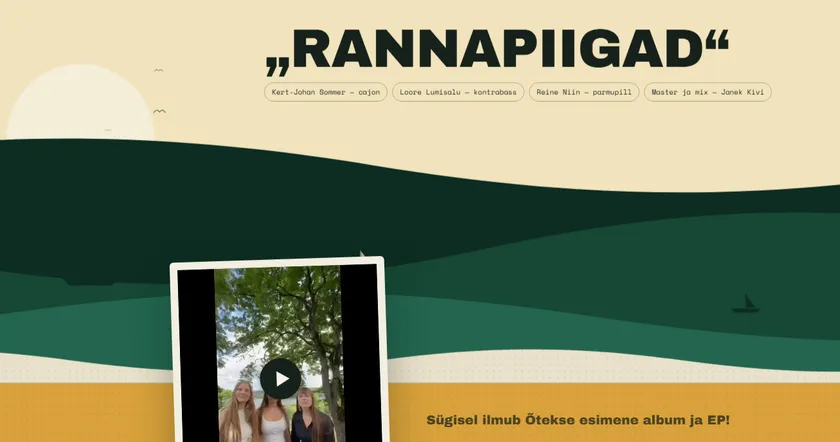
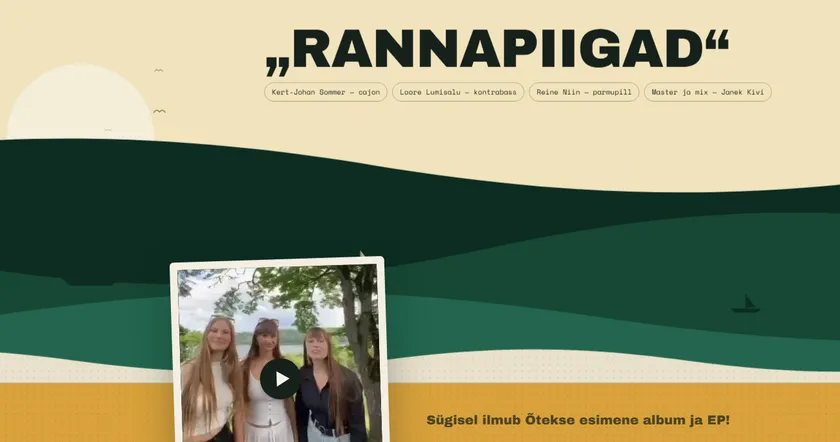
Fill the video card with no black bars, cropping at the top
The upright clips' black bars are baked into the 16:9 file, so object-fit
alone could not remove them. The video is now drawn at the size where an
upright clip's footage spans the 8:9 card's width (316% wide, 158% tall),
centred and pinned to the bottom, so the part that does not fit is cut off at
the top: upright clips fill the card edge to edge, and wide clips show their
middle third. The card keeps its size.

At that size the browser's own controls would sit outside the card, so the
card gets its own bar — play/pause, seek, time, mute and full screen, with
Estonian and English labels — and clicking the picture plays or pauses. Full
screen shows the whole picture with native controls. The card now straightens
once the video has been started rather than when native controls appear. The
header card's stills are retaken.

Changed region(s): [[0.1857, 0.5882, 0.4643, 1.0], [0.8048, 0.7941, 0.8357, 0.8235], [0.0619, 0.7941, 0.0929, 0.8235]]

diff --git a/src/components/home/AlbumVideo.tsx b/src/components/home/AlbumVideo.tsx
@@ -1,6 +1,6 @@
 "use client";
 
-import { useRef, useState } from "react";
+import { useEffect, useRef, useState } from "react";
 import { useTranslations } from "next-intl";
 import { IMAGES, VIDEOS } from "@/content/assets";
 import styles from "./AlbumVideo.module.scss";
@@ -10,25 +10,85 @@ import styles from "./AlbumVideo.module.scss";
 // Served from our own server, so playing it contacts no third party: no
 // consent question, and nothing extra for the privacy policy.
 //
-// The frame is 8:9, one fixed shape: the column's width and twice the height
-// of a 16:9 frame. The file is 16:9 and mixes upright phone clips, with black
-// bars baked in either side, and wide landscape shots. With `object-fit:
-// cover` the picture fills the frame by height, so the upright clips show at
-// twice their 16:9 size with only slim bars left, and the wide clips show their
-// middle half. Both
-// the owner's calls: a card that changed shape per clip looked worse, and a
-// taller card that kept the whole picture left the upright clips just as small.
+// The frame is 8:9. The file is 16:9 and mixes upright phone clips, whose
+// black bars are baked into the picture, with wide landscape shots. At the
+// owner's call there are no bars: the video is drawn at the size where an
+// upright clip's own footage spans the frame's width, centred, and pinned to
+// the bottom, so the part that does not fit is cut off at the top. Wide clips
+// show their middle third.
+//
+// That video box is about three times wider than the frame, so the browser's
+// own controls — laid out across the box — would sit outside the frame, cut
+// off. The frame carries its own small bar instead (play/pause, seek, mute,
+// full screen), and clicking the picture plays or pauses. In full screen the
+// browser shows the whole picture with its native controls.
 //
 // Until pressed it shows our poster (a frame of the video) and a play button,
 // with `preload="none"`: loading the page never downloads the ~6 MB file, only
 // pressing play does.
+
+function formatTime(seconds: number) {
+  const s = Math.max(0, Math.floor(seconds));
+  return `${Math.floor(s / 60)}:${String(s % 60).padStart(2, "0")}`;
+}
+
 export function AlbumVideo() {
   const t = useTranslations("Album");
   const video = useRef<HTMLVideoElement>(null);
   const [started, setStarted] = useState(false);
+  const [playing, setPlaying] = useState(false);
+  const [muted, setMuted] = useState(false);
+  const [time, setTime] = useState(0);
+  const [duration, setDuration] = useState(0);
+  const [fullscreen, setFullscreen] = useState(false);
+
+  useEffect(() => {
+    const el = video.current;
+    if (!el) return;
+    const sync = () => {
+      setPlaying(!el.paused && !el.ended);
+      setMuted(el.muted);
+      setTime(el.currentTime);
+      if (Number.isFinite(el.duration)) setDuration(el.duration);
+    };
+    const onFullscreen = () => setFullscreen(document.fullscreenElement === el);
+    const events = ["play", "pause", "ended", "timeupdate", "loadedmetadata", "volumechange"];
+    events.forEach((e) => el.addEventListener(e, sync));
+    document.addEventListener("fullscreenchange", onFullscreen);
+    return () => {
+      events.forEach((e) => el.removeEventListener(e, sync));
+      document.removeEventListener("fullscreenchange", onFullscreen);
+    };
+  }, []);
+
+  const start = () => {
+    setStarted(true);
+    void video.current?.play();
+  };
+
+  const togglePlay = () => {
+    const el = video.current;
+    if (!el) return;
+    if (el.paused || el.ended) void el.play();
+    else el.pause();
+  };
+
+  const toggleMute = () => {
+    const el = video.current;
+    if (el) el.muted = !el.muted;
+  };
+
+  const enterFullscreen = () => {
+    const el = video.current as
+      | (HTMLVideoElement & { webkitEnterFullscreen?: () => void })
+      | null;
+    if (!el) return;
+    if (el.requestFullscreen) void el.requestFullscreen();
+    else el.webkitEnterFullscreen?.(); // iOS Safari: its own full-screen player
+  };
 
   return (
-    <div className={styles.frame}>
+    <div className={styles.frame} data-started={started ? "" : undefined}>
       <video
         ref={video}
         className={styles.video}
@@ -36,21 +96,111 @@ export function AlbumVideo() {
         poster={IMAGES.albumVideoPoster}
         preload="none"
         playsInline
-        controls={started}
+        // Native controls only in full screen, where the whole picture shows.
+        controls={fullscreen}
         aria-label={t("videoTitle")}
       />
-      {!started && (
+
+      {!started ? (
         <button
           type="button"
           className={styles.start}
           aria-label={t("videoPlay")}
-          onClick={() => {
-            setStarted(true);
-            void video.current?.play();
-          }}
+          onClick={start}
         >
           <span className={styles.play} aria-hidden />
         </button>
+      ) : (
+        <>
+          <button
+            type="button"
+            className={styles.toggle}
+            aria-label={playing ? t("videoPause") : t("videoPlay")}
+            onClick={togglePlay}
+          />
+          <div className={styles.bar}>
+            <button
+              type="button"
+              className={styles.ctrl}
+              aria-label={playing ? t("videoPause") : t("videoPlay")}
+              onClick={togglePlay}
+            >
+              {playing ? (
+                <svg viewBox="0 0 24 24" aria-hidden>
+                  <path d="M7 5h3.5v14H7zM13.5 5H17v14h-3.5z" fill="currentColor" />
+                </svg>
+              ) : (
+                <svg viewBox="0 0 24 24" aria-hidden>
+                  <path d="M8 5.5v13l11-6.5z" fill="currentColor" />
+                </svg>
+              )}
+            </button>
+
+            <input
+              type="range"
+              className={styles.seek}
+              min={0}
+              max={duration || 0}
+              step={0.1}
+              value={Math.min(time, duration || 0)}
+              aria-label={t("videoSeek")}
+              aria-valuetext={`${formatTime(time)} / ${formatTime(duration)}`}
+              onChange={(e) => {
+                const el = video.current;
+                if (el) el.currentTime = Number(e.target.value);
+              }}
+            />
+            <span className={styles.time} aria-hidden>
+              {formatTime(time)}
+            </span>
+
+            <button
+              type="button"
+              className={styles.ctrl}
+              aria-label={muted ? t("videoUnmute") : t("videoMute")}
+              aria-pressed={muted}
+              onClick={toggleMute}
+            >
+              <svg viewBox="0 0 24 24" aria-hidden>
+                <path d="M4 9.5h3.5L12 5.5v13l-4.5-4H4z" fill="currentColor" />
+                {muted ? (
+                  <path
+                    d="M15.5 9.5l5 5m0-5l-5 5"
+                    stroke="currentColor"
+                    strokeWidth="2"
+                    strokeLinecap="round"
+                  />
+                ) : (
+                  <path
+                    d="M15.5 9a4 4 0 0 1 0 6M18 6.5a7.5 7.5 0 0 1 0 11"
+                    stroke="currentColor"
+                    strokeWidth="2"
+                    strokeLinecap="round"
+                    fill="none"
+                  />
+                )}
+              </svg>
+            </button>
+
+            <button
+              type="button"
+              className={styles.ctrl}
+              aria-label={t("videoFullscreen")}
+              onClick={enterFullscreen}
+            >
+              <svg viewBox="0 0 24 24" aria-hidden>
+                <path
+                  d="M4.5 9V4.5H9M15 4.5h4.5V9M19.5 15v4.5H15M9 19.5H4.5V15"
+                  stroke="currentColor"
+                  strokeWidth="2"
+                  strokeLinecap="round"
+                  strokeLinejoin="round"
+                  fill="none"
+                />
+              </svg>
+            </button>
+          </div>
+        </>
       )}
     </div>
   );

diff --git a/src/components/home/AlbumVideo.module.scss b/src/components/home/AlbumVideo.module.scss
@@ -1,6 +1,6 @@
 @use "../../styles/mixins" as *;
 
-// 8:9: the card's width, twice the height of a 16:9 frame (owner request).
+// 8:9: the card's width, twice the height of a 16:9 frame.
 .frame {
   position: relative;
   aspect-ratio: 8 / 9;
@@ -8,22 +8,35 @@
   background: var(--color-ink);
 }
 
+// The whole 16:9 file, at the size where an upright clip's footage (the middle
+// 303.75 of its 960 px, 31.64%) spans the frame's width: 316.05% of the frame's
+// width, and 16:9 of that, which is 158.03% of an 8:9 frame's height. Centred
+// sideways and pinned to the bottom, so the part that does not fit is cut off
+// at the top (see AlbumVideo). `max-width: none` undoes the reset's 100% cap.
 .video {
   position: absolute;
-  inset: 0;
+  left: 50%;
+  bottom: 0;
   display: block;
-  width: 100%;
-  height: 100%;
-  // Scales the 16:9 picture to the frame's height and crops the sides: the
-  // upright clips show at twice their 16:9 size with their baked-in bars
-  // narrowed to slim strips (the frame is still wider than the footage), and
-  // wide clips show their middle half.
+  width: 316.05%;
+  height: 158.03%;
+  max-width: none;
+  transform: translateX(-50%);
   object-fit: cover;
 }
 
-// Covers the poster until the first press; after that the native controls
-// take over.
+// Covers the poster until the first press.
 .start {
+  position: absolute;
+  inset: 0;
+  width: 100%;
+  height: 100%;
+  cursor: pointer;
+  @include focus-ring;
+}
+
+// After the first press: the picture itself plays and pauses.
+.toggle {
   position: absolute;
   inset: 0;
   width: 100%;
@@ -68,4 +81,50 @@
   @include reduced-motion {
     transform: none;
   }
+}
+
+// The frame's own control bar, over a scrim at the bottom of the picture.
+.bar {
+  position: absolute;
+  left: 0;
+  right: 0;
+  bottom: 0;
+  display: flex;
+  align-items: center;
+  gap: 6px;
+  padding: 22px 8px 6px;
+  background: linear-gradient(transparent, var(--color-forest-a60));
+  color: var(--color-cream-bright);
+}
+
+.ctrl {
+  flex: none;
+  display: grid;
+  place-items: center;
+  width: 32px;
+  height: 32px;
+  border-radius: 50%;
+  @include focus-ring;
+
+  &:hover {
+    background: var(--color-cream-a16);
+  }
+
+  svg {
+    width: 20px;
+    height: 20px;
+  }
+}
+
+.seek {
+  flex: 1;
+  min-width: 0;
+  accent-color: var(--color-gold);
+  cursor: pointer;
+}
+
+.time {
+  flex: none;
+  font-size: var(--text-badge);
+  font-variant-numeric: tabular-nums;
 }

diff --git a/src/components/home/AlbumSection.module.scss b/src/components/home/AlbumSection.module.scss
@@ -346,8 +346,9 @@
   transform: rotate(-1.8deg);
   transition: transform 0.3s var(--ease-standard);
 
-  // Straightens once the video plays: a tilted player reads as a mistake.
-  &:has(video[controls]) {
+  // Straightens once the video has been started: a tilted player reads as a
+  // mistake.
+  &:has([data-started]) {
     transform: none;
   }
 
